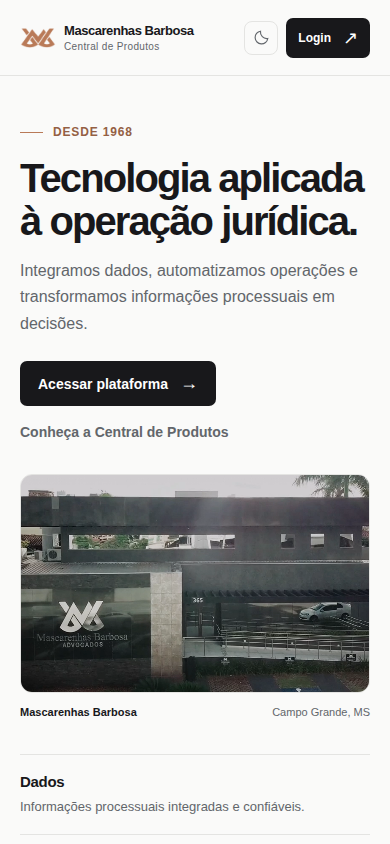
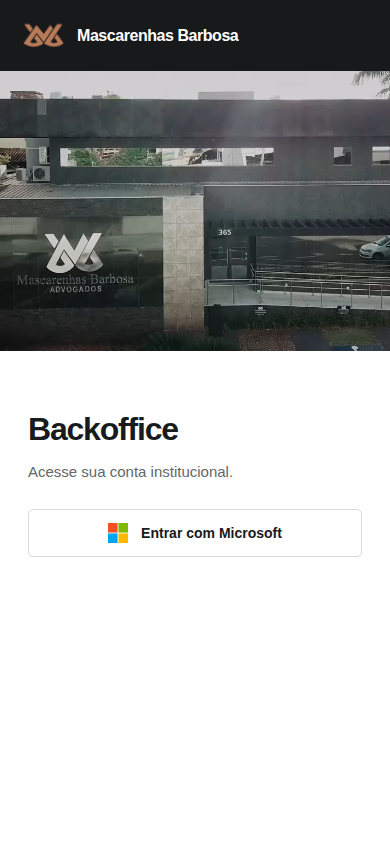
design: replace landing prototype with direct Backoffice access

diff --git a/prototypes/landing.html b/prototypes/landing.html
@@ -1,20 +1,55 @@
 <!doctype html>
-<html lang="pt-BR" data-theme="light">
+<html lang="pt-BR">
 <head>
-<meta charset="utf-8"><meta name="viewport" content="width=device-width, initial-scale=1"><title>Central de Produtos — Mascarenhas Barbosa</title>
+<meta charset="utf-8">
+<meta name="viewport" content="width=device-width,initial-scale=1">
+<title>Backoffice | Mascarenhas Barbosa</title>
 <link rel="icon" href="../favicon-copper.svg">
 <style>
-:root{color-scheme:light;--bg:#fafaf9;--text:#18181b;--muted:#62666b;--line:#e4e4e2;--accent:#946044;--copper:#b97a58;--surface:#fff;--button:#18181b;--onbutton:#fff}
-html[data-theme=dark]{color-scheme:dark;--bg:#111315;--text:#ededed;--muted:#a5a8ac;--line:#2d3033;--accent:#d5a284;--surface:#1b1e21;--button:#ededed;--onbutton:#151719}
-*{box-sizing:border-box}html{scroll-behavior:smooth}body{margin:0;background:var(--bg);color:var(--text);font-family:Inter,-apple-system,BlinkMacSystemFont,"Segoe UI",Arial,sans-serif;-webkit-font-smoothing:antialiased}a{color:inherit;text-decoration:none}button{font:inherit}button,a{touch-action:manipulation}a:focus-visible,button:focus-visible{outline:2px solid var(--copper);outline-offset:4px}.shell{width:min(1240px,calc(100% - 112px));margin:auto}.header{height:88px;border-bottom:1px solid var(--line)}.header .shell{height:100%;display:flex;align-items:center;justify-content:space-between;gap:24px}.brand{display:flex;align-items:center;gap:15px}.brand img{width:52px;height:52px;object-fit:contain}.brand strong{display:block;font-weight:650;font-size:17px;letter-spacing:-.45px}.brand small{display:block;font-size:11px;margin-top:4px;color:var(--muted);letter-spacing:.035em}.nav{display:flex;align-items:center;gap:28px;font-size:14px}.nav a:not(.primary){color:var(--muted)}.nav a:hover{color:var(--text)}.theme{background:none;color:var(--muted);border:1px solid var(--line);border-radius:8px;width:38px;height:38px;display:grid;place-items:center;cursor:pointer}.theme svg{width:17px;height:17px}.primary{display:inline-flex;align-items:center;justify-content:center;gap:12px;background:var(--button);color:var(--onbutton);font-weight:550;font-size:14px;border-radius:7px;padding:12px 18px;min-height:42px;white-space:nowrap;border:0;cursor:pointer}.primary:hover{opacity:.85}.arrow{font-size:18px;font-weight:400}.hero{display:grid;grid-template-columns:minmax(0, .91fr) minmax(0,1.09fr);gap:68px;align-items:center;padding:92px 0 76px;min-height:550px}.eyebrow{display:flex;align-items:center;gap:10px;color:var(--accent);font-size:12px;font-weight:600;letter-spacing:.07em;text-transform:uppercase}.eyebrow:before{content:"";display:inline-block;width:23px;height:1px;background:var(--copper)}h1{font-size:clamp(40px,4.15vw,58px);line-height:1.075;letter-spacing:-.048em;font-weight:570;margin:25px 0 20px;max-width:600px}.hero p{font-size:17px;line-height:1.65;color:var(--muted);max-width:475px;margin:0 0 30px}.hero-actions{display:flex;align-items:center;gap:24px;flex-wrap:wrap}.secondary{font-size:14px;font-weight:550;color:var(--muted)}.media{margin:0;min-width:0}.video-frame{border-radius:12px;overflow:hidden;background:#202426;aspect-ratio:16/10;position:relative;border:1px solid var(--line)}video{width:100%;height:100%;object-fit:cover;display:block}.media figcaption{display:flex;justify-content:space-between;gap:16px;padding-top:13px;font-size:12px;color:var(--muted)}.media figcaption span:first-child{color:var(--text);font-weight:550}.metrics{border-top:1px solid var(--line);border-bottom:1px solid var(--line);display:grid;grid-template-columns:repeat(3,1fr);padding:27px 0;gap:28px}.metric{padding:4px 24px 4px 0}.metric+.metric{border-left:1px solid var(--line);padding-left:28px}.metric b{font-size:15px;letter-spacing:-.02em;font-weight:620;display:block;margin-bottom:7px}.metric span{font-size:13px;color:var(--muted);line-height:1.5;display:block}.about{padding:64px 0 70px;display:grid;grid-template-columns:.65fr 1fr;gap:70px}.about h2{font-size:30px;font-weight:560;letter-spacing:-.035em;margin:0}.about p{font-size:16px;line-height:1.65;color:var(--muted);margin:0}.footer{border-top:1px solid var(--line);padding:22px 0;font-size:12px;color:var(--muted);display:flex;justify-content:space-between;gap:20px}.footer a:hover{color:var(--text)}
-@media(min-width:1600px){.hero{padding-top:110px;padding-bottom:100px}}@media(max-width:1000px){.shell{width:calc(100% - 64px)}.hero{gap:35px;padding:65px 0;min-height:0}h1{font-size:clamp(37px,5vw,50px)}.nav{gap:17px}}@media(max-width:720px){.shell{width:calc(100% - 40px)}.header{height:76px}.header .shell{gap:10px}.brand{gap:8px}.brand img{width:36px;height:36px}.brand strong{font-size:13px}.brand small{font-size:10px;margin-top:3px}.nav{gap:8px}.nav>a:not(.primary){display:none}.nav .primary{font-size:12px;padding:9px 12px;min-height:36px}.theme{width:34px;height:34px}.hero{display:flex;flex-direction:column;align-items:stretch;gap:34px;padding:49px 0 36px}.hero h1{font-size:40px;margin:18px 0 15px}.hero p{font-size:16px;margin-bottom:24px}.video-frame{aspect-ratio:16/10}.media figcaption{font-size:11px}.metrics{grid-template-columns:1fr;gap:0;padding:0}.metric,.metric+.metric{border-left:none;padding:18px 0}.metric+.metric{border-top:1px solid var(--line)}.about{grid-template-columns:1fr;gap:16px;padding:42px 0}.footer{flex-wrap:wrap}.hero-actions{gap:18px}}@media(prefers-reduced-motion:reduce){html{scroll-behavior:auto}}
-</style></head>
+:root{color-scheme:light;--ink:#181b1d;--muted:#62676a;--line:#d8dbdc;--paper:#fff;--brand:#b97a58;--video-bg:#17191b}
+*{box-sizing:border-box}
+html,body{margin:0;min-height:100%;font-family:Inter,-apple-system,BlinkMacSystemFont,"Segoe UI",Arial,sans-serif;color:var(--ink);background:var(--paper);-webkit-font-smoothing:antialiased}
+.layout{min-height:100vh;min-height:100svh;display:grid;grid-template-columns:60% 40%}
+.institution{display:flex;flex-direction:column;min-width:0;background:var(--video-bg);color:#fff}
+.brand{display:flex;align-items:center;gap:17px;padding:22px 40px;min-height:92px}
+.brand img{width:58px;height:58px;object-fit:contain;display:block}
+.brand-name{font-size:19px;letter-spacing:-.45px;font-weight:550}
+.film{position:relative;flex:1;min-height:0;overflow:hidden;background:var(--video-bg)}
+.film video{display:block;position:absolute;inset:0;width:100%;height:100%;object-fit:cover;object-position:25% 50%}
+.access{min-width:0;display:flex;align-items:center;justify-content:center;padding:48px 44px;position:relative}
+.access-inner{width:100%;max-width:340px}
+h1{font-size:36px;line-height:1.15;letter-spacing:-1.2px;font-weight:550;margin:0 0 12px}
+.description{font-size:15px;color:var(--muted);line-height:1.55;margin:0 0 32px}
+.microsoft{display:flex;align-items:center;justify-content:center;gap:13px;width:100%;min-height:48px;padding:12px 18px;border:1px solid var(--line);border-radius:5px;background:var(--paper);font:inherit;font-size:14px;font-weight:550;color:var(--ink);cursor:pointer}
+.microsoft:hover{background:#f5f5f4;border-color:#a8aaac}
+.microsoft:focus-visible{outline:2px solid #946044;outline-offset:3px}
+.microsoft svg{width:20px;height:20px;flex:none}
+.status{font-size:13px;color:var(--muted);line-height:1.5;margin:14px 0 0}
+.status[hidden]{display:none}
+@media(max-width:900px){.layout{grid-template-columns:54% 46%}.brand{padding:20px 26px}.access{padding:40px 30px}}
+@media(max-width:650px){.layout{grid-template-columns:1fr;grid-template-rows:auto minmax(300px,1fr)}.brand{padding:14px 22px;min-height:64px;gap:12px}.brand img{width:43px;height:43px}.brand-name{font-size:16px}.film{height:clamp(180px,34svh,280px);flex:none}.access{padding:60px 28px 58px;align-items:flex-start}.access-inner{max-width:390px}h1{font-size:32px}.description{margin-bottom:26px}}
+@media(prefers-reduced-motion:reduce){.film video{display:none}.film{background:var(--video-bg) url('../assets/mascarenhas-login-poster.jpg') center/cover no-repeat}}
+</style>
+</head>
 <body>
-<header class="header"><div class="shell"><a class="brand" href="#inicio" aria-label="Mascarenhas Barbosa — Central de Produtos"><img src="../favicon-copper.svg" alt=""><span><strong>Mascarenhas Barbosa</strong><small>Central de Produtos</small></span></a><nav class="nav" aria-label="Principal"><a href="#sobre-nos">Sobre nós</a><button class="theme" id="theme" aria-label="Alternar tema" aria-pressed="false"><svg viewBox="0 0 24 24" fill="none" stroke="currentColor" stroke-width="1.6"><path d="M20.9 13.4A9 9 0 0 1 10.6 3.1 9 9 0 1 0 20.9 13.4Z"/></svg></button><a class="primary" href="../">Login <span class="arrow" aria-hidden="true">↗</span></a></nav></div></header>
-<main id="inicio" class="shell">
-<section class="hero"><div><div class="eyebrow">Desde 1968</div><h1>Tecnologia aplicada à operação jurídica.</h1><p>Integramos dados, automatizamos operações e transformamos informações processuais em decisões.</p><div class="hero-actions"><a href="../" class="primary">Acessar plataforma <span class="arrow" aria-hidden="true">→</span></a><a href="#sobre-nos" class="secondary">Conheça a Central de Produtos</a></div></div><figure class="media"><div class="video-frame"><video autoplay muted loop playsinline preload="metadata" poster="../assets/mascarenhas-login-poster.jpg" aria-label="Vídeo institucional do Mascarenhas Barbosa"><source src="../assets/mascarenhas-login.mp4" type="video/mp4"></video></div><figcaption><span>Mascarenhas Barbosa</span><span>Campo Grande, MS</span></figcaption></figure></section>
-<section class="metrics" aria-label="Pilares da Central de Produtos"><div class="metric"><b>Dados</b><span>Informações processuais integradas e confiáveis.</span></div><div class="metric"><b>Automação</b><span>Menos atividades repetitivas, mais foco na operação.</span></div><div class="metric"><b>Inteligência jurídica</b><span>Indicadores para decisões e acompanhamento de resultados.</span></div></section>
-<section class="about" id="sobre-nos"><h2>Sobre a Central de Produtos</h2><p>Unimos a experiência jurídica do Mascarenhas Barbosa ao desenvolvimento de soluções tecnológicas para a gestão da operação. Da entrada do processo ao encerramento, conectamos informações, equipes e resultados.</p></section>
-<footer class="footer"><span>Mascarenhas Barbosa · Central de Produtos</span><a href="#inicio">Voltar ao início ↑</a></footer></main>
-<script>const root=document.documentElement,btn=document.querySelector('#theme'),video=document.querySelector('video');btn.addEventListener('click',()=>{const dark=root.dataset.theme!=='dark';root.dataset.theme=dark?'dark':'light';btn.setAttribute('aria-pressed',String(dark));});if(matchMedia('(prefers-reduced-motion: reduce)').matches){video.autoplay=false;video.pause();}</script>
-</body></html>
+<main class="layout">
+<section class="institution" aria-label="Mascarenhas Barbosa">
+<header class="brand"><img src="../favicon-copper.svg" alt=""><span class="brand-name">Mascarenhas Barbosa</span></header>
+<div class="film"><video autoplay muted loop playsinline preload="metadata" poster="../assets/mascarenhas-login-poster.jpg" aria-label="Vídeo institucional do Mascarenhas Barbosa"><source src="../assets/mascarenhas-login.mp4" type="video/mp4"></video></div>
+</section>
+<section class="access" aria-labelledby="access-title">
+<div class="access-inner">
+<h1 id="access-title">Backoffice</h1>
+<p class="description">Acesse sua conta institucional.</p>
+<button type="button" class="microsoft" id="microsoft"><svg viewBox="0 0 23 23" aria-hidden="true"><rect width="11" height="11" fill="#f25022"/><rect x="12" width="11" height="11" fill="#7fba00"/><rect y="12" width="11" height="11" fill="#00a4ef"/><rect x="12" y="12" width="11" height="11" fill="#ffb900"/></svg>Entrar com Microsoft</button>
+<p class="status" id="status" role="status" hidden>Protótipo visual. A autenticação não está conectada neste ambiente.</p>
+</div>
+</section>
+</main>
+<script>
+const video=document.querySelector('video');
+if(matchMedia('(prefers-reduced-motion: reduce)').matches){video.autoplay=false;video.pause();}
+document.querySelector('#microsoft').addEventListener('click',()=>{document.querySelector('#status').hidden=false;});
+</script>
+</body>
+</html>
